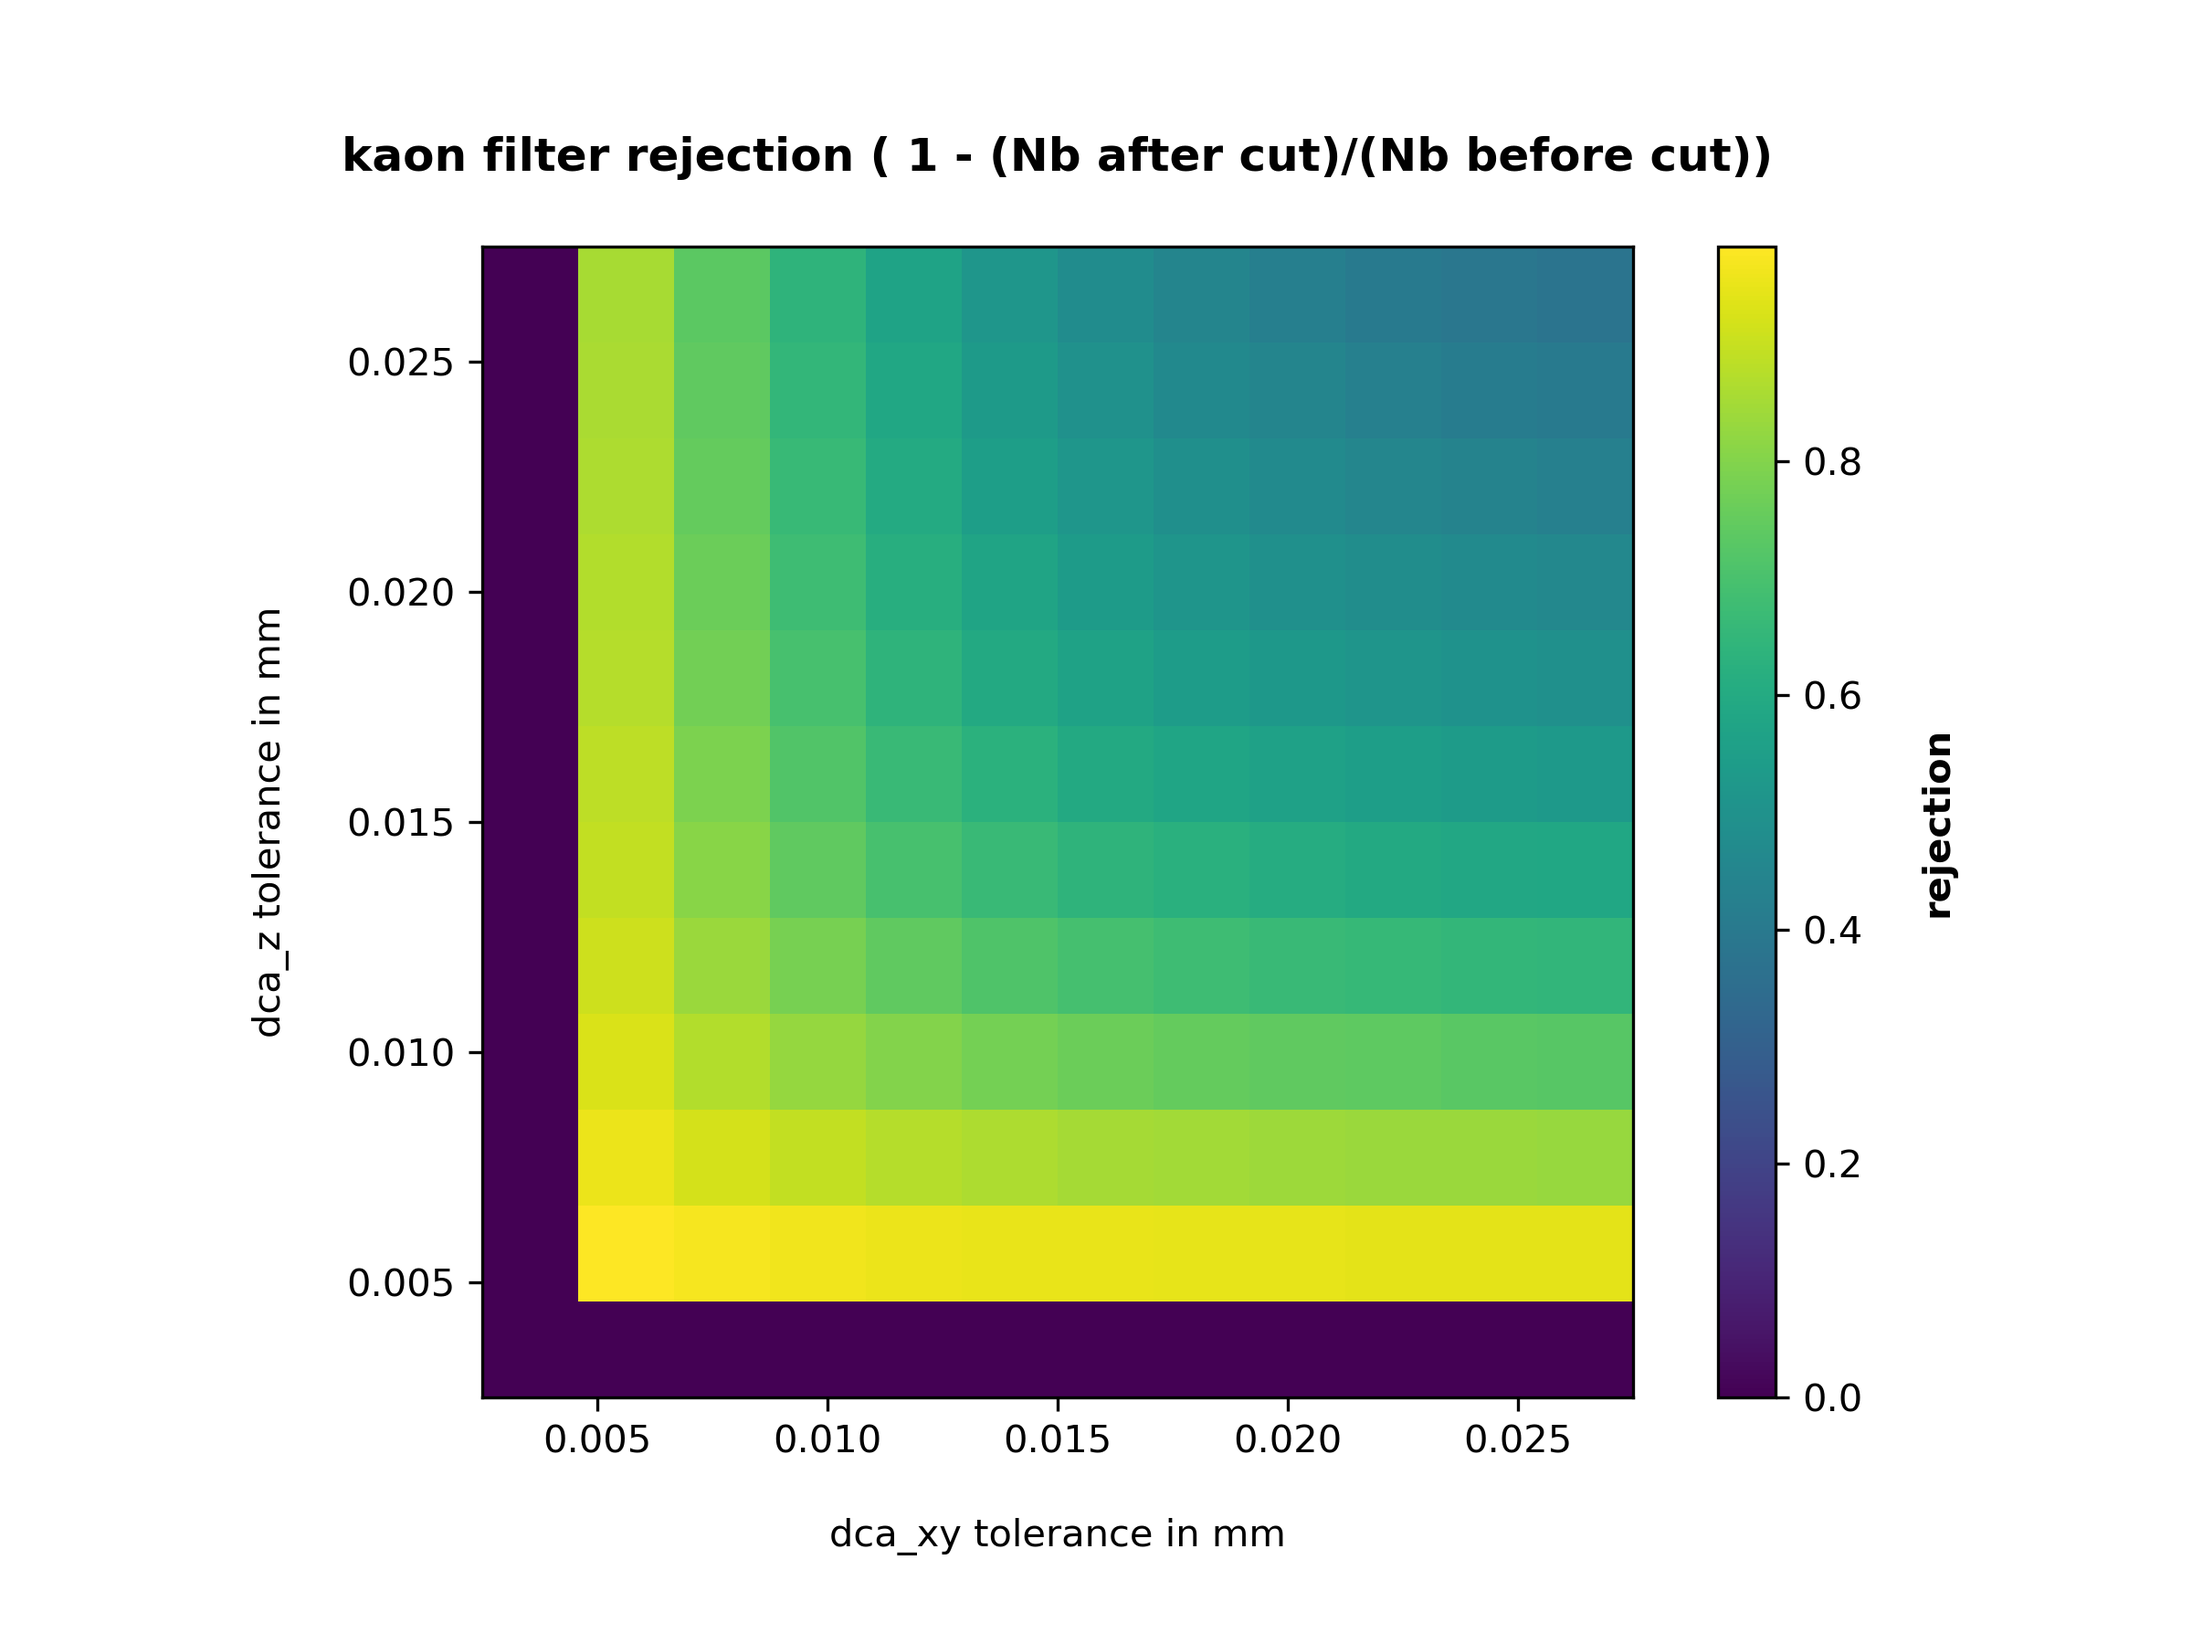
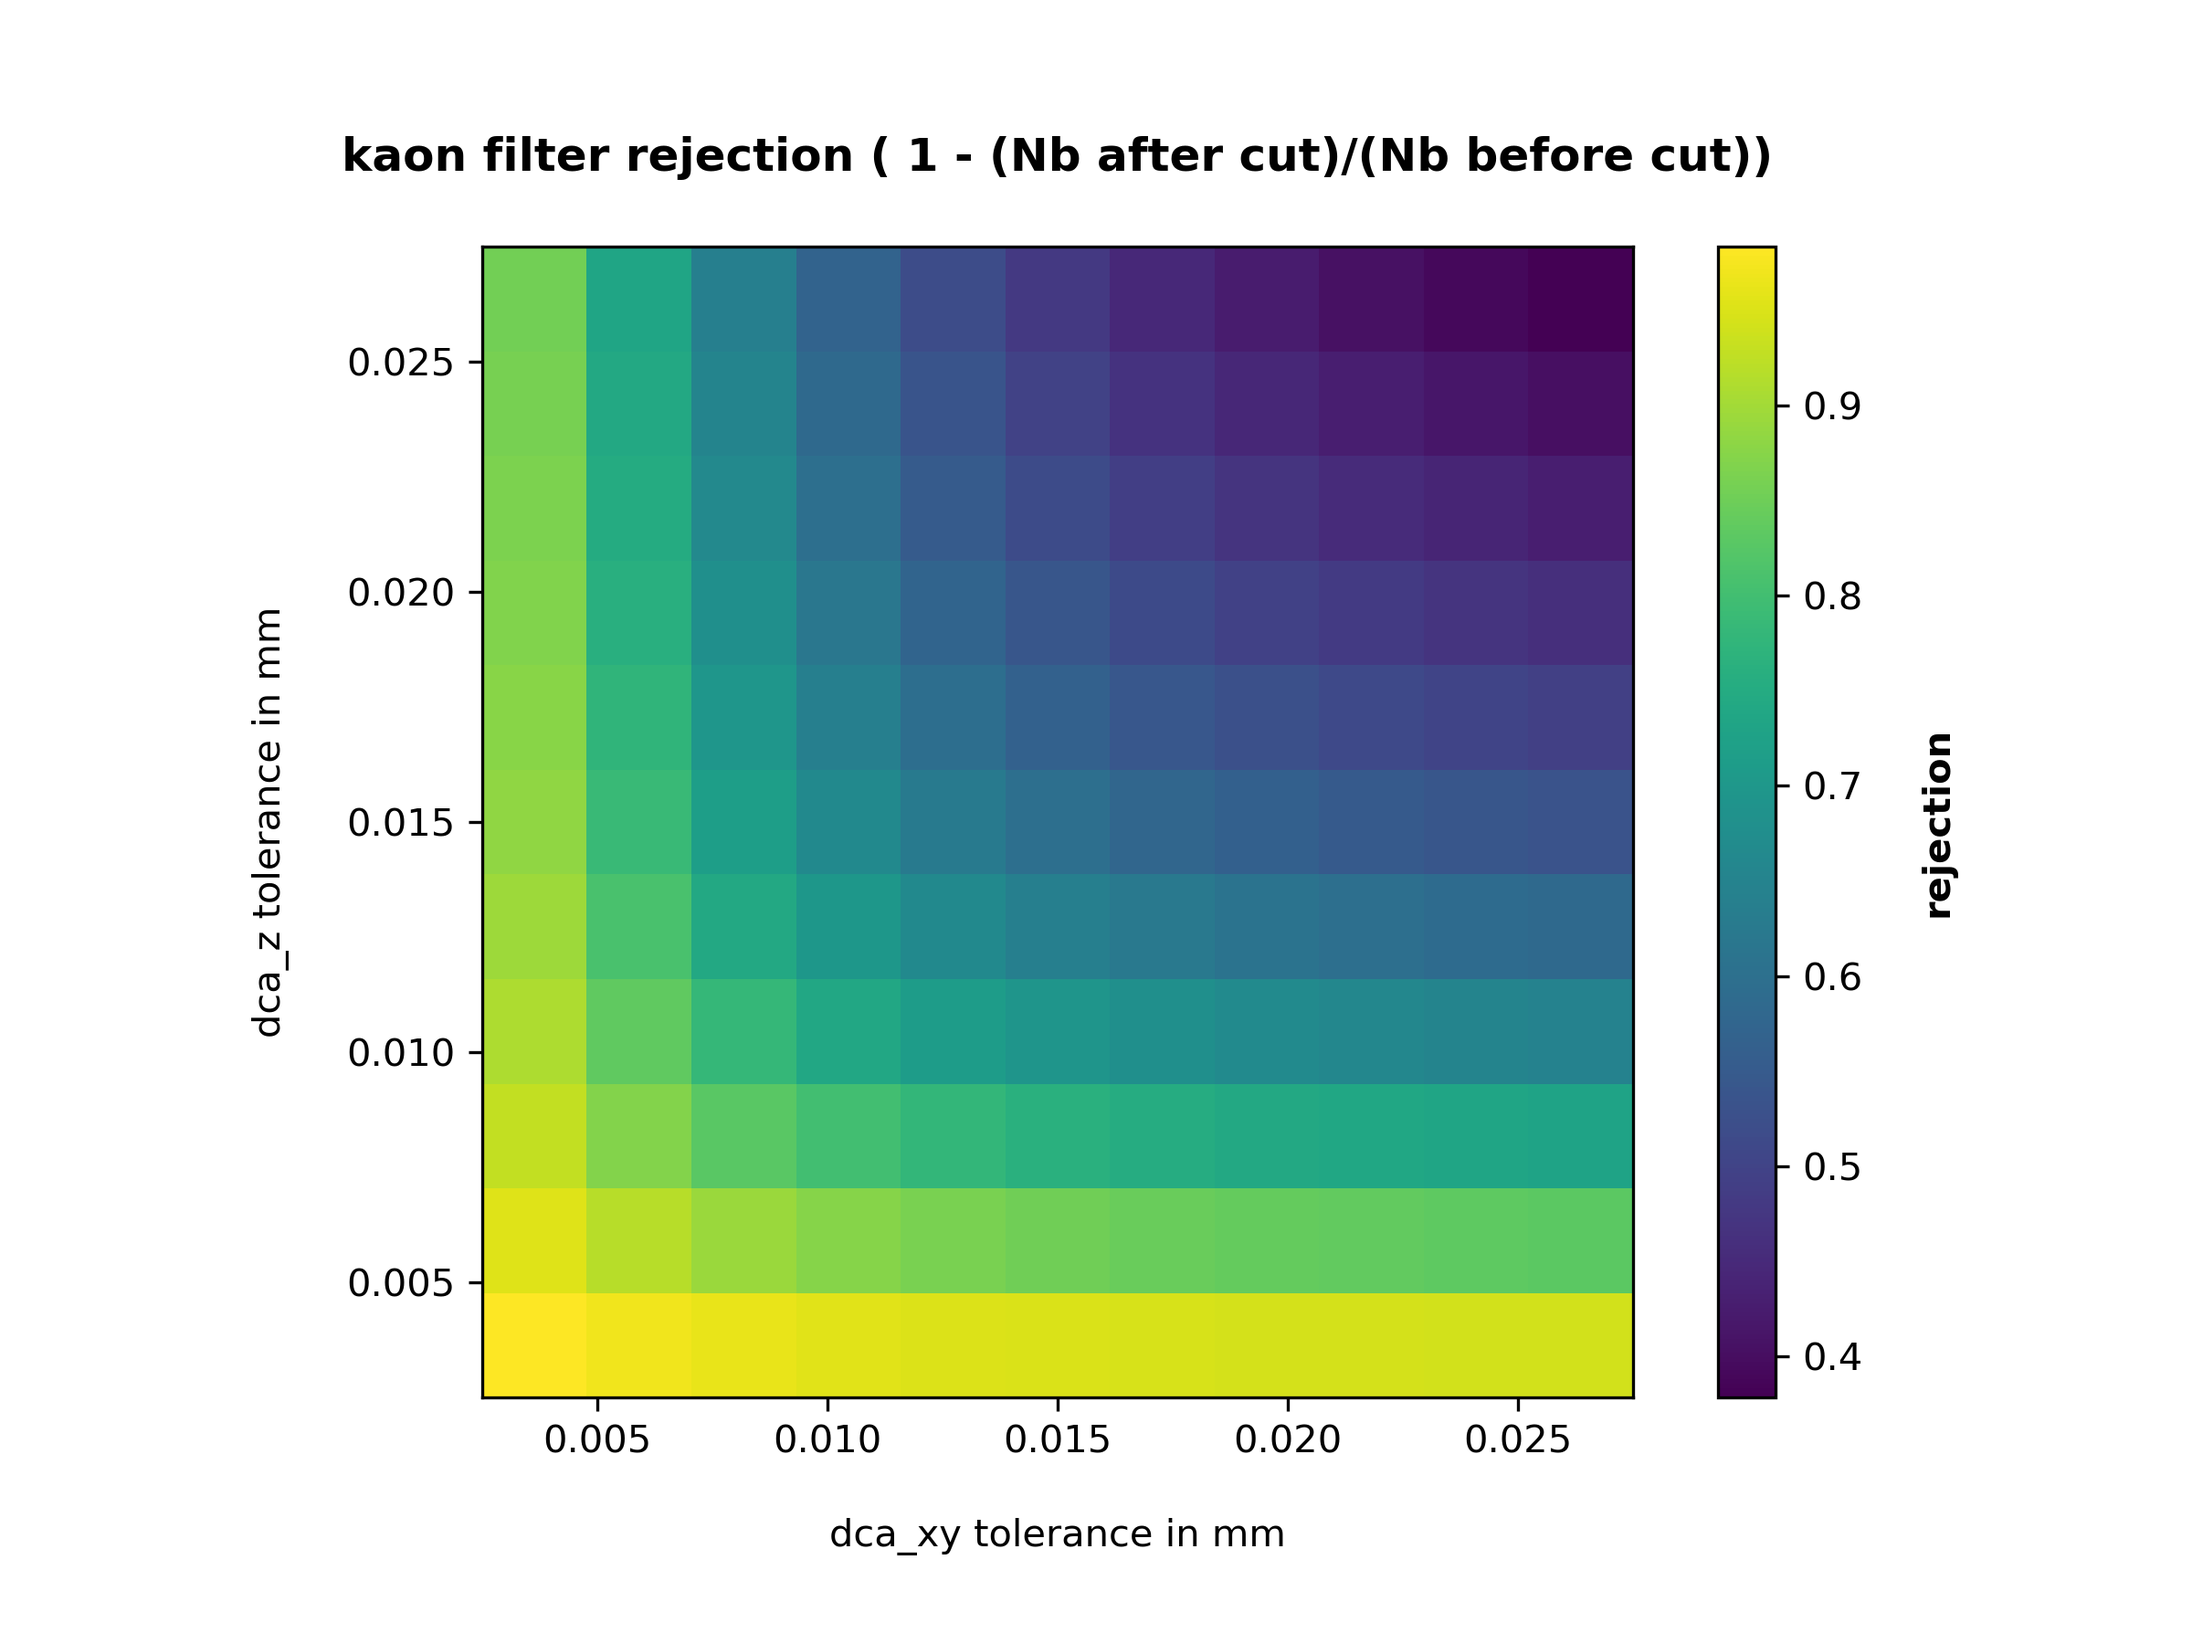
fix 2d metric plots in dcafilter project

diff --git a/projects/dcafilter/results/filter_performance/plot_dca2d_metrics.py b/projects/dcafilter/results/filter_performance/plot_dca2d_metrics.py
@@ -122,9 +122,11 @@ plt.savefig("results/2dcolorplot_Bratios.png", dpi=300)
 #PLOT efficiency:
 #efficiency = (Ng after cut)/(Ng before cut)
 
-efficiencies = np.zeros((12,12))
+efficiencies = np.zeros((11,11))
 for n in range(len(xyvec)):
     i, j = get_i_j(xyvec[n],zvec[n])
+    i-=1
+    j-=1
     efficiencies[i,j] = Ngvec[n]/Ng_0
 
 plt.figure(figsize=(8,6))
@@ -141,9 +143,11 @@ plt.savefig("results/2dcolorplot_efficiency.png", dpi=300)
 #PLOT rejection:
 #rejection = 1 - (Nb after cut)/(Nb before cut)
 
-rejections = np.zeros((12,12))
+rejections = np.zeros((11,11))
 for n in range(len(xyvec)):
     i, j = get_i_j(xyvec[n],zvec[n])
+    i-=1
+    j-=1
     rejections[i,j] = 1.0 -Nbvec[n]/Nb_0
 
 plt.figure(figsize=(8,6))
@@ -160,9 +164,11 @@ plt.savefig("results/2dcolorplot_rejection.png", dpi=300)
 #PLOT purity:
 #purity = (Ng after cut)/(Ng+Nb after cut)
 
-purities = np.zeros((12,12))
+purities = np.zeros((11,11))
 for n in range(len(xyvec)):
     i, j = get_i_j(xyvec[n],zvec[n])
+    i-=1
+    j-=1
     purities[i,j] = (Ngvec[n]/(Nbvec[n]+Ngvec[n]))
 
 plt.figure(figsize=(8,6))
@@ -179,9 +185,11 @@ plt.savefig("results/2dcolorplot_purity.png", dpi=300)
 #PLOT significance:
 #significance = (Ng after cut)/sqrt(Ng+Nb after cut)
 
-significances = np.zeros((12,12))
+significances = np.zeros((11,11))
 for n in range(len(xyvec)):
     i, j = get_i_j(xyvec[n],zvec[n])
+    i-=1
+    j-=1
     significances[i,j] = Ngvec[n]/math.sqrt(Nbvec[n]+Ngvec[n])
 
 plt.figure(figsize=(8,6))
